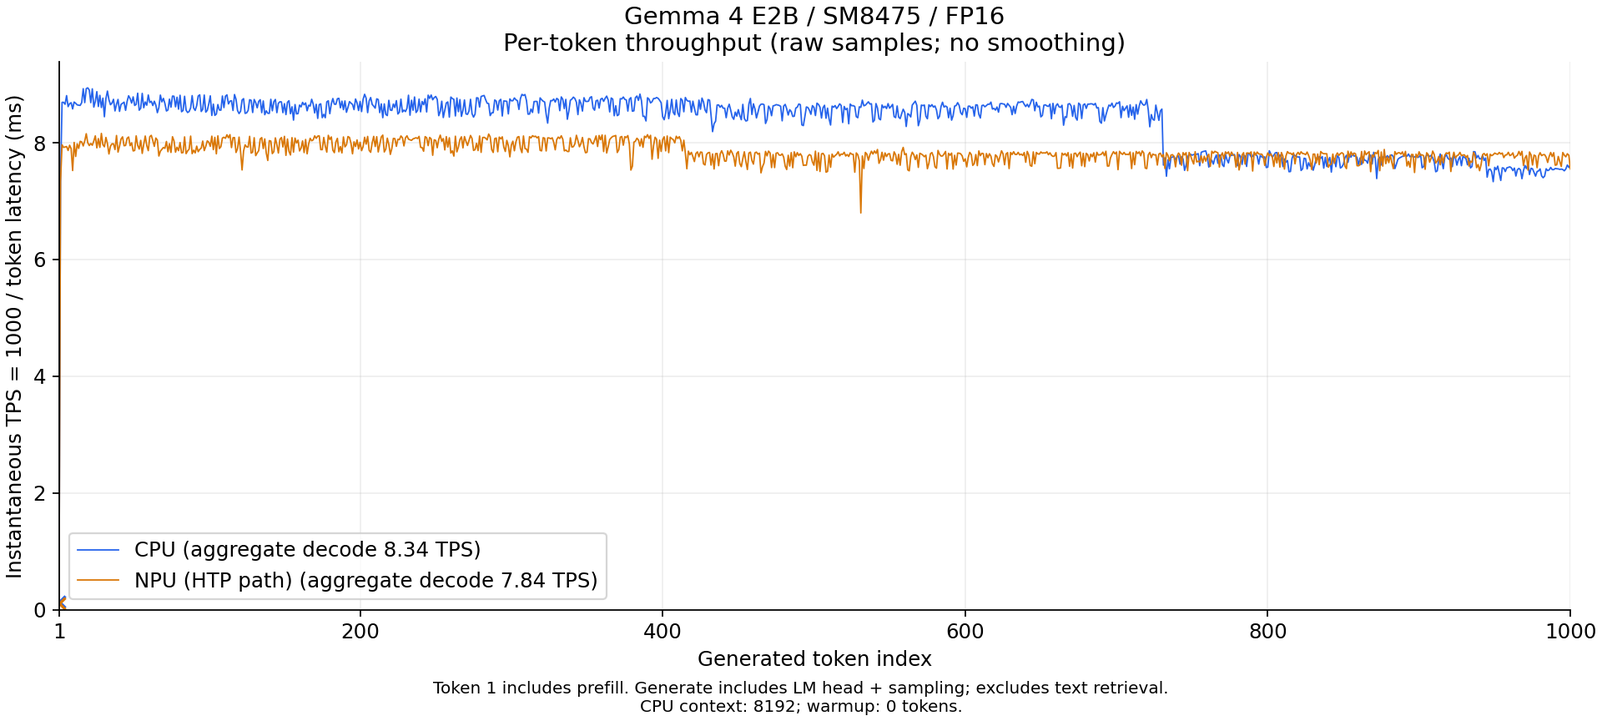
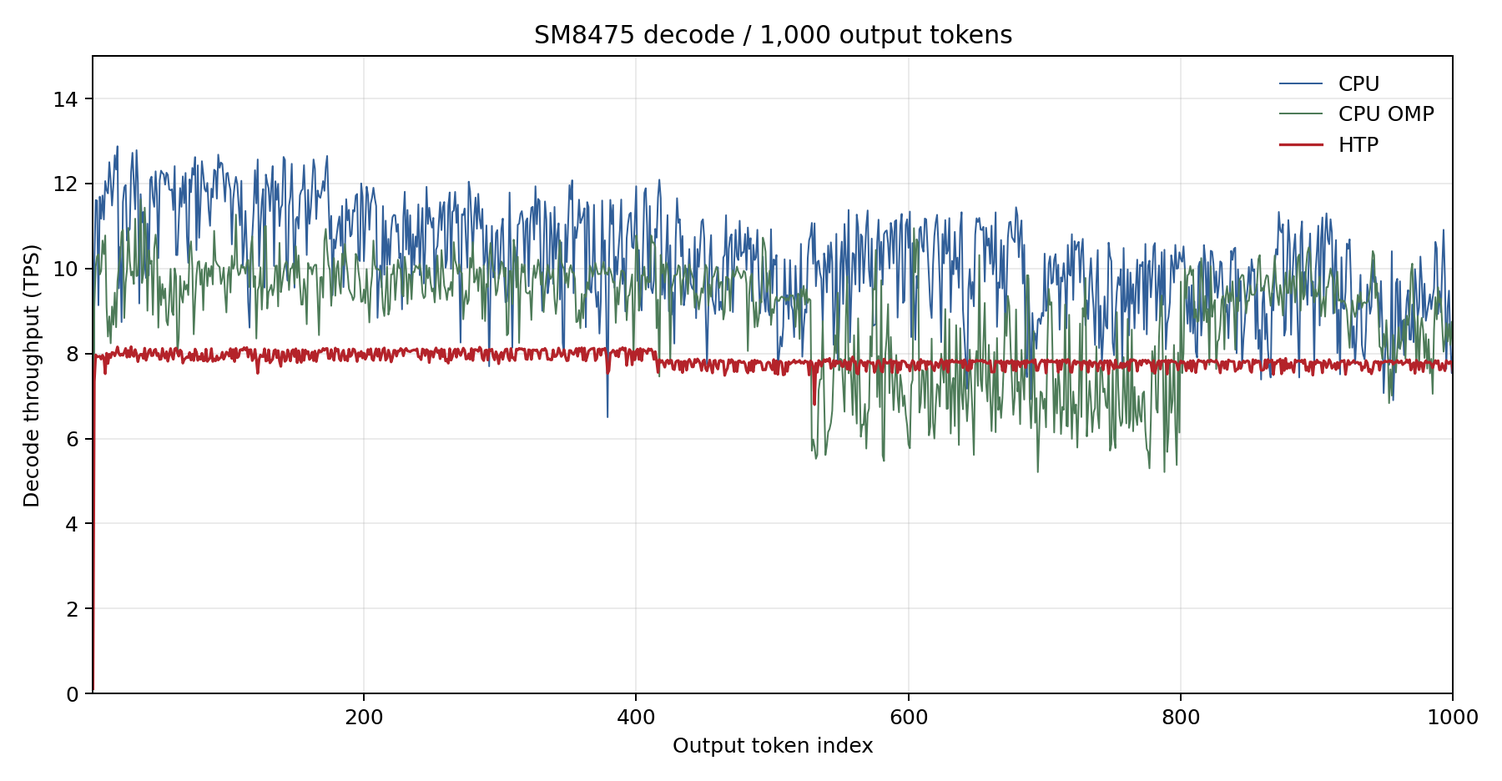
Replace the CPU reference with the standard llama.cpp path
Use the 2026-09-16 CPU reference, which runs the same Q4_0 GGUF through
the standard llama.cpp path with 8 decoder workers, for every CPU number:
decode, the prefill curve, and VLM and audio latency. Both the shipping
build and the OpenMP build are shown.

Add a section for host CPU use during prefill (about 4% on the NPU versus
86-98% on the CPU builds) with the regenerated charts and the new media
TTFT breakdowns, and restate the prefill speedup in the overview as up to
3.3x with the lower CPU use.

diff --git a/llm/qnn.html b/llm/qnn.html
@@ -91,7 +91,7 @@ j=d.createElement(s),dl=l!='dataLayer'?'&l='+l:'';j.async=true;j.src=
   <div class="guide-content">
 
     <h2>概要</h2>
-    <p>ailia LLM 1.5.0 以降は Qualcomm SoC の NPU（Hexagon）を使用した高速推論に対応しています。NPU 向けには、llama.cpp とは異なるアイリア社独自の実装を搭載しており、Android 端末上で Prefill を最大 19 倍高速化できます（Snapdragon 8+ Gen 1、2,048 トークン入力時の同端末 CPU 比）。テキストの LLM だけでなく、画像を入力する VLM（Vision Language Model）や音声入力にも対応し、NPU で処理できます。</p>
+    <p>ailia LLM 1.5.0 以降は Qualcomm SoC の NPU（Hexagon）を使用した高速推論に対応しています。NPU 向けには、llama.cpp とは異なるアイリア社独自の実装を搭載しており、Android 端末上で Prefill を最大 3.3 倍高速化し、Prefill 中の CPU 使用率を 1/20 以下に抑えられます（Snapdragon 8+ Gen 1、2,048 トークン入力時の同端末 CPU 比）。テキストの LLM だけでなく、画像を入力する VLM（Vision Language Model）や音声入力にも対応し、NPU で処理できます。</p>
     <p>QNN（Qualcomm AI Engine Direct）は Qualcomm が提供するバックエンド API です。ailia LLMでは、llama.cppのモデル形式であるGGUFを、QNNで実行可能な形式に変換することで、NPUでの推論を実現しています。</p>
     <div class="note">
       <strong>注意:</strong> QNN バックエンドは ailia LLM 1.5.0 以降で利用できます。
@@ -235,84 +235,108 @@ llm.openMultimodalProjectorFile(mmprojQnnPath) // VLM のみ</code></pre>
     </div>
 
     <h2>ベンチマーク</h2>
-    <p>Gemma 4 E2B を 2 機種で測定した結果です。Snapdragon 8+ Gen 1（SM8475 / Hexagon v69、ASUS AI2202）は FP16 モデル、Snapdragon 7s Gen 3（SM7635 / Hexagon v73）は Int16 モデルを使用しています。いずれも QAIRT 2.47.0.260601、コンテキスト長 8192、Q4_0 入力、AR-256 / AR-1 構成です。CPU は同じ端末上の llama.cpp 互換の CPU 実装（GGUF、2 スレッド）を使用しています。NPU の値は 2026-09-16 の量産パッケージ（PLE フロントエンドを NPU 側で実行）での測定です。</p>
+    <p>Gemma 4 E2B を 2 機種で測定した結果です。Snapdragon 8+ Gen 1（SM8475 / Hexagon v69、ASUS AI2202）は FP16 モデル、Snapdragon 7s Gen 3（SM7635 / Hexagon v73）は Int16 モデルを使用しています。いずれも QAIRT 2.47.0.260601、コンテキスト長 8192、Q4_0 入力、AR-256 / AR-1 構成で、NPU の値は 2026-09-16 の量産パッケージ（PLE フロントエンドを NPU 側で実行）での測定です。</p>
+    <p>CPU は同じ端末上で、同一の Q4_0 GGUF を標準の llama.cpp 経路で実行した値です（デコーダワーカー 8、コンテキスト 8192、NDK r27c）。出荷構成は OpenMP 無効のビルドで、表の「CPU」がこれにあたります。「CPU（OpenMP）」は <code>GGML_OPENMP=ON</code> / <code>OMP_NUM_THREADS=2</code> でビルドした比較用の構成です。</p>
     <div class="note">
-      <strong>注意:</strong> 2 機種は SoC も量子化方式も異なるため、両者の差を量子化方式だけの差とみなすことはできません。各測定は 1 試行の値であり、複数回の平均ではありません。
+      <strong>注意:</strong> 2 機種は SoC も量子化方式も異なるため、両者の差を量子化方式だけの差とみなすことはできません。CPU は 2 回実行の中央値、NPU は各条件 1 試行の値です。
     </div>
 
     <h3>Decode スループット</h3>
     <p>1,000 トークン生成時のスループットです。</p>
     <div class="table-wrap">
     <table class="version-table">
-      <tr><th>端末</th><th>モデル</th><th>CPU</th><th>NPU（QNN）</th><th>NPU / CPU</th></tr>
-      <tr><td>SM8475（Hexagon v69）</td><td>FP16</td><td class="num">8.340 tokens/s</td><td class="num">7.843 tokens/s</td><td class="num">0.94 倍</td></tr>
-      <tr><td>SM7635（Hexagon v73）</td><td>Int16</td><td class="num">7.851 tokens/s</td><td class="num">6.883 tokens/s</td><td class="num">0.88 倍</td></tr>
+      <tr><th>端末</th><th>モデル</th><th>CPU</th><th>CPU（OpenMP）</th><th>NPU（QNN）</th><th>NPU / CPU</th></tr>
+      <tr><td>SM8475（Hexagon v69）</td><td>FP16</td><td class="num">9.971 tokens/s</td><td class="num">8.482 tokens/s</td><td class="num">7.843 tokens/s</td><td class="num">0.79 倍</td></tr>
+      <tr><td>SM7635（Hexagon v73）</td><td>Int16</td><td class="num">6.045 tokens/s</td><td class="num">4.730 tokens/s</td><td class="num">6.883 tokens/s</td><td class="num">1.14 倍</td></tr>
     </table>
     </div>
-    <p>この条件では、いずれの端末でも Decode は CPU の方が高速です。Decode は 1 トークンずつ処理するため重みの読み出しが支配的で、NPU の並列演算性能を活かしにくいことによります。</p>
+    <p>SM7635 では NPU の Decode が CPU より 1.14 倍（OpenMP ビルド比では 1.46 倍）高速です。SM8475 では CPU の方が高速で、Decode は 1 トークンずつ処理するため重みの読み出しが支配的になり、NPU の並列演算性能を活かしにくいことによります。</p>
 
     <figure class="bench-figure">
-      <img src="benchmark/tps_sm8475.png" alt="SM8475 の Decode のトークンごとのスループット（1000 トークン生成、CPU vs NPU）" loading="lazy">
-      <figcaption>SM8475（FP16）の Decode のトークンごとのスループット（1000 トークン生成、CPU vs NPU）</figcaption>
+      <img src="benchmark/tps_sm8475.png" alt="SM8475 の Decode のトークンごとのスループット（1000 トークン生成、CPU / CPU OpenMP / NPU）" loading="lazy">
+      <figcaption>SM8475（FP16）の Decode のトークンごとのスループット（1000 トークン生成）</figcaption>
     </figure>
     <figure class="bench-figure">
-      <img src="benchmark/tps_sm7635.png" alt="SM7635 の Decode のトークンごとのスループット（1000 トークン生成、CPU vs NPU）" loading="lazy">
-      <figcaption>SM7635（Int16）の Decode のトークンごとのスループット（1000 トークン生成、CPU vs NPU）</figcaption>
+      <img src="benchmark/tps_sm7635.png" alt="SM7635 の Decode のトークンごとのスループット（1000 トークン生成、CPU / CPU OpenMP / NPU）" loading="lazy">
+      <figcaption>SM7635（Int16）の Decode のトークンごとのスループット（1000 トークン生成）</figcaption>
     </figure>
 
     <h3>Prefill スループット</h3>
     <p>入力トークン数を 64〜2,048 まで変えたときのスループット（tokens/s）です。各条件で 100 トークンを生成しています。</p>
     <div class="table-wrap">
     <table class="version-table">
-      <tr><th>入力トークン数</th><th>SM8475 CPU</th><th>SM8475 NPU（FP16）</th><th>SM7635 CPU</th><th>SM7635 NPU（Int16）</th></tr>
-      <tr><td class="num">64</td><td class="num">14.870</td><td class="num">23.978</td><td class="num">12.571</td><td class="num">14.296</td></tr>
-      <tr><td class="num">128</td><td class="num">21.505</td><td class="num">147.489</td><td class="num">16.822</td><td class="num">55.247</td></tr>
-      <tr><td class="num">256</td><td class="num">21.214</td><td class="num">265.230</td><td class="num">16.544</td><td class="num">109.083</td></tr>
-      <tr><td class="num">512</td><td class="num">20.454</td><td class="num">286.695</td><td class="num">16.013</td><td class="num">111.699</td></tr>
-      <tr><td class="num">1024</td><td class="num">18.662</td><td class="num">293.811</td><td class="num">15.208</td><td class="num">111.440</td></tr>
-      <tr><td class="num">2048</td><td class="num">14.549</td><td class="num">286.029</td><td class="num">14.295</td><td class="num">110.301</td></tr>
+      <tr><th>入力トークン数</th><th>SM8475 CPU</th><th>SM8475 CPU（OpenMP）</th><th>SM8475 NPU（FP16）</th><th>SM7635 CPU</th><th>SM7635 CPU（OpenMP）</th><th>SM7635 NPU（Int16）</th></tr>
+      <tr><td class="num">64</td><td class="num">69.627</td><td class="num">49.362</td><td class="num">23.978</td><td class="num">92.689</td><td class="num">76.227</td><td class="num">14.296</td></tr>
+      <tr><td class="num">128</td><td class="num">86.688</td><td class="num">61.941</td><td class="num">147.489</td><td class="num">97.005</td><td class="num">83.779</td><td class="num">55.247</td></tr>
+      <tr><td class="num">256</td><td class="num">61.918</td><td class="num">53.572</td><td class="num">265.230</td><td class="num">80.064</td><td class="num">67.042</td><td class="num">109.083</td></tr>
+      <tr><td class="num">512</td><td class="num">84.692</td><td class="num">75.048</td><td class="num">286.695</td><td class="num">105.030</td><td class="num">100.753</td><td class="num">111.699</td></tr>
+      <tr><td class="num">1024</td><td class="num">90.603</td><td class="num">77.651</td><td class="num">293.811</td><td class="num">112.090</td><td class="num">105.844</td><td class="num">111.440</td></tr>
+      <tr><td class="num">2048</td><td class="num">86.761</td><td class="num">72.302</td><td class="num">286.029</td><td class="num">96.678</td><td class="num">93.273</td><td class="num">110.301</td></tr>
     </table>
     </div>
     <ul>
-      <li>Prefill のスループットは <code>実入力トークン数 / 最初の生成呼び出し時間</code> です。ウォームアップは行っておらず、初回の遅延を含みます。</li>
-      <li>短い入力から長い入力へ順に測定しているため、64 トークンの結果は後続の条件と初期状態が異なります。</li>
-      <li>2,048 トークン入力では、SM8475 で CPU の約 19.7 倍、SM7635 で約 7.7 倍のスループットです。</li>
+      <li>Prefill のスループットは <code>実入力トークン数 / 最初の生成呼び出し時間</code> です。2 トークンのウォームアップ後に測定しています。</li>
+      <li>2,048 トークン入力では、SM8475 で CPU の約 3.30 倍（OpenMP ビルド比 3.96 倍）、SM7635 で約 1.14 倍（同 1.18 倍）のスループットです。</li>
+      <li>64 トークンのような短い入力では、固定長の AR-256 グラフでパディングが大きくなるため NPU が不利になります。</li>
     </ul>
 
     <figure class="bench-figure">
-      <img src="benchmark/pps_sm8475.png" alt="SM8475 の Prefill スループット（入力トークン数 64〜2048、CPU vs NPU）" loading="lazy">
-      <figcaption>SM8475（FP16）の Prefill スループット（入力トークン数 64〜2048、CPU vs NPU）</figcaption>
+      <img src="benchmark/pps_sm8475.png" alt="SM8475 の Prefill スループットと Prefill 中の CPU 使用率（CPU / CPU OpenMP / NPU）" loading="lazy">
+      <figcaption>SM8475（FP16）の Prefill スループット（左）と 2,048 トークン Prefill 中のホストプロセス CPU 使用率（右）</figcaption>
     </figure>
     <figure class="bench-figure">
-      <img src="benchmark/pps_sm7635.png" alt="SM7635 の Prefill スループット（入力トークン数 64〜2048、CPU vs NPU）" loading="lazy">
-      <figcaption>SM7635（Int16）の Prefill スループット（入力トークン数 64〜2048、CPU vs NPU）</figcaption>
+      <img src="benchmark/pps_sm7635.png" alt="SM7635 の Prefill スループットと Prefill 中の CPU 使用率（CPU / CPU OpenMP / NPU）" loading="lazy">
+      <figcaption>SM7635（Int16）の Prefill スループット（左）と 2,048 トークン Prefill 中のホストプロセス CPU 使用率（右）</figcaption>
     </figure>
 
+    <h3>Prefill 中の CPU 使用率</h3>
+    <p>2,048 トークン Prefill における、最初の生成呼び出し前後のプロセス CPU 時間です（3 回実行の中央値）。8 コアすべてを使い切った状態を 100% として表しています。アプリケーションプロセスの使用率であり、端末全体の使用率ではありません。</p>
+    <div class="table-wrap">
+    <table class="version-table">
+      <tr><th>端末</th><th>CPU</th><th>CPU（OpenMP）</th><th>NPU（QNN）</th></tr>
+      <tr><td>SM8475</td><td class="num">98.2%</td><td class="num">86.2%</td><td class="num">4.0%</td></tr>
+      <tr><td>SM7635</td><td class="num">93.0%</td><td class="num">98.0%</td><td class="num">3.4%</td></tr>
+    </table>
+    </div>
+    <p>NPU では Prefill 中の CPU 使用率が 4% 程度に収まるため、アプリケーション側の処理に CPU を残せます。3 回の連続実行での PPS の変動は NPU が 4.5%（SM8475）・2.1%（SM7635）だったのに対し、CPU 構成では最大 64.0%・38.5% でした。この測定は温度制御を行っていないため、変動の原因をサーマルスロットリングだけに帰することはできません。</p>
+
     <h3>VLM（画像入力）の応答時間</h3>
-    <p>同一の 768x768 画像 10 枚（画像 256 + テキスト 62 = 318 入力トークン、各 100 トークン出力）の中央値です。TTFT は画像エンコーダを含むプロンプト設定と最初の生成呼び出しの合計で、モデルのオープンは含みません。CPU 側は Decoder が 2 スレッド、画像エンコーダは既定のコア数で動作しています。</p>
+    <p>同一の 768x768 画像 10 枚、各 100 トークン出力での中央値です。TTFT は画像エンコーダを含むプロンプト設定と最初の生成呼び出しの合計で、モデルのオープンは含みません。</p>
     <div class="table-wrap">
     <table class="version-table">
       <tr><th>端末・経路</th><th>TTFT（中央値）</th><th>Decode（中央値）</th></tr>
-      <tr><td>SM8475 CPU</td><td class="num">137.37 秒</td><td class="num">6.60 tokens/s</td></tr>
-      <tr><td>SM8475 NPU（FP16）</td><td class="num">6.57 秒</td><td class="num">7.69 tokens/s</td></tr>
-      <tr><td>SM7635 CPU</td><td class="num">105.18 秒</td><td class="num">7.93 tokens/s</td></tr>
-      <tr><td>SM7635 NPU（Int16）</td><td class="num">9.83 秒</td><td class="num">6.98 tokens/s</td></tr>
+      <tr><td>SM8475 CPU</td><td class="num">83.63 秒</td><td class="num">12.081 tokens/s</td></tr>
+      <tr><td>SM8475 CPU（OpenMP）</td><td class="num">128.22 秒</td><td class="num">7.491 tokens/s</td></tr>
+      <tr><td>SM8475 NPU（FP16）</td><td class="num">6.57 秒</td><td class="num">7.692 tokens/s</td></tr>
+      <tr><td>SM7635 CPU</td><td class="num">95.01 秒</td><td class="num">5.891 tokens/s</td></tr>
+      <tr><td>SM7635 CPU（OpenMP）</td><td class="num">97.45 秒</td><td class="num">3.569 tokens/s</td></tr>
+      <tr><td>SM7635 NPU（Int16）</td><td class="num">9.83 秒</td><td class="num">6.982 tokens/s</td></tr>
     </table>
     </div>
-    <p>画像入力の TTFT は、SM8475 で約 20.9 倍、SM7635 で約 10.7 倍短縮されます。各画像 1 試行の測定であり、CPU と NPU は別試行のため厳密な同時条件の A/B ではありません。CPU の値は 2026-09-13 の測定で、CPU 実行経路は変更していません。</p>
+    <p>画像入力の TTFT は、SM8475 で約 12.7 倍、SM7635 で約 9.7 倍短縮されます。各画像 1 試行の測定であり、CPU と NPU は別試行のため厳密な同時条件の A/B ではありません。なお、入力トークン数の数え方は経路によって異なり（CPU はテキスト 64 トークン、NPU は画像 256 トークンを含む 318 トークンとして報告）、いずれも同じ 768x768 の画素と 256 個の画像埋め込みを処理しています。</p>
+    <figure class="bench-figure">
+      <img src="benchmark/media_ttft_sm8475.png" alt="SM8475 の VLM / 音声入力の TTFT 内訳（CPU / CPU OpenMP / NPU）" loading="lazy">
+      <figcaption>SM8475（FP16）の VLM / 音声入力の TTFT 内訳（エンコーダとデコーダ Prefill）</figcaption>
+    </figure>
+    <figure class="bench-figure">
+      <img src="benchmark/media_ttft_sm7635.png" alt="SM7635 の VLM / 音声入力の TTFT 内訳（CPU / CPU OpenMP / NPU）" loading="lazy">
+      <figcaption>SM7635（Int16）の VLM / 音声入力の TTFT 内訳（エンコーダとデコーダ Prefill）</figcaption>
+    </figure>
 
     <h3>音声入力の応答時間</h3>
-    <p>FLEURS の 10 録音（5 言語 各 2 件、自然な EOS まで生成し上限 256 トークン）の中央値です。TTFT は音声エンコーダを含むプロンプト設定と最初の生成呼び出しの合計で、モデルのオープンは含みません。CPU 側は Decoder が 2 スレッド、音声エンコーダは既定のコア数で動作しています。</p>
+    <p>FLEURS の 10 録音（5 言語 各 2 件、自然な EOS まで生成し上限 256 トークン）の中央値です。TTFT は音声エンコーダを含むプロンプト設定と最初の生成呼び出しの合計で、モデルのオープンは含みません。</p>
     <div class="table-wrap">
     <table class="version-table">
       <tr><th>端末・経路</th><th>TTFT（中央値）</th><th>Decode（中央値）</th><th>出力トークン数</th></tr>
-      <tr><td>SM8475 CPU</td><td class="num">49.32 秒</td><td class="num">7.68 tokens/s</td><td class="num">21〜91</td></tr>
-      <tr><td>SM8475 NPU（FP16）</td><td class="num">8.08 秒</td><td class="num">7.19 tokens/s</td><td class="num">21〜60</td></tr>
-      <tr><td>SM7635 CPU</td><td class="num">45.65 秒</td><td class="num">7.92 tokens/s</td><td class="num">21〜91</td></tr>
-      <tr><td>SM7635 NPU（Int16）</td><td class="num">9.29 秒</td><td class="num">6.54 tokens/s</td><td class="num">21〜90</td></tr>
+      <tr><td>SM8475 CPU</td><td class="num">37.29 秒</td><td class="num">10.416 tokens/s</td><td class="num">21〜89</td></tr>
+      <tr><td>SM8475 CPU（OpenMP）</td><td class="num">36.49 秒</td><td class="num">10.539 tokens/s</td><td class="num">21〜89</td></tr>
+      <tr><td>SM8475 NPU（FP16）</td><td class="num">8.08 秒</td><td class="num">7.193 tokens/s</td><td class="num">21〜60</td></tr>
+      <tr><td>SM7635 CPU</td><td class="num">47.22 秒</td><td class="num">5.167 tokens/s</td><td class="num">21〜89</td></tr>
+      <tr><td>SM7635 CPU（OpenMP）</td><td class="num">35.37 秒</td><td class="num">3.847 tokens/s</td><td class="num">21〜89</td></tr>
+      <tr><td>SM7635 NPU（Int16）</td><td class="num">9.29 秒</td><td class="num">6.539 tokens/s</td><td class="num">21〜90</td></tr>
     </table>
     </div>
-    <p>音声入力の TTFT は、SM8475 で約 6.1 倍、SM7635 で約 4.9 倍短縮されます。生成される文と出力長は経路ごとに異なるため、TTFT 以外の値は同一出力に対する比較ではありません。CPU と NPU は別試行の測定であり、同時条件の A/B ではありません。</p>
+    <p>音声入力の TTFT は、SM8475 で約 4.6 倍、SM7635 で約 5.1 倍短縮されます。生成される文と出力長は経路ごとに異なるため、TTFT 以外の値は同一出力に対する比較ではありません。CPU と NPU は別試行の測定であり、同時条件の A/B ではありません。</p>
 
     <h2>制約</h2>
     <ul>

diff --git a/en/llm/qnn.html b/en/llm/qnn.html
@@ -91,7 +91,7 @@ j=d.createElement(s),dl=l!='dataLayer'?'&l='+l:'';j.async=true;j.src=
   <div class="guide-content">
 
     <h2>Overview</h2>
-    <p>ailia LLM 1.5.0 and later support fast inference on the NPU (Hexagon) of Qualcomm SoCs. For the NPU, ailia LLM uses a proprietary implementation developed by ailia Inc. that is separate from llama.cpp, and it accelerates prefill by up to 19x on Android devices (Snapdragon 8+ Gen 1, 2,048-token input, compared with the CPU on the same device). In addition to text LLMs and VLMs (Vision Language Models) that take images as input, ailia LLM also supports audio input, with processing on the NPU.</p>
+    <p>ailia LLM 1.5.0 and later support fast inference on the NPU (Hexagon) of Qualcomm SoCs. For the NPU, ailia LLM uses a proprietary implementation developed by ailia Inc. that is separate from llama.cpp, and it accelerates prefill by up to 3.3x on Android devices while keeping CPU use during prefill below one twentieth of the CPU path (Snapdragon 8+ Gen 1, 2,048-token input, compared with the CPU on the same device). In addition to text LLMs and VLMs (Vision Language Models) that take images as input, ailia LLM also supports audio input, with processing on the NPU.</p>
     <p>QNN (Qualcomm AI Engine Direct) is a backend API provided by Qualcomm. ailia LLM achieves NPU inference by converting GGUF, the model format of llama.cpp, into a format that can be executed by QNN.</p>
     <div class="note">
       <strong>Note:</strong> The QNN backend is available in ailia LLM 1.5.0 and later.
@@ -236,84 +236,108 @@ llm.openMultimodalProjectorFile(mmprojQnnPath) // VLM only</code></pre>
     </div>
 
     <h2>Benchmark</h2>
-    <p>The following results were measured with Gemma 4 E2B on two devices. Snapdragon 8+ Gen 1 (SM8475 / Hexagon v69, ASUS AI2202) uses the FP16 model, and Snapdragon 7s Gen 3 (SM7635 / Hexagon v73) uses the Int16 model. Both were measured with QAIRT 2.47.0.260601, a context length of 8192, Q4_0 input and the AR-256 / AR-1 configuration. CPU uses the llama.cpp compatible CPU implementation (GGUF, 2 threads) on the same device. The NPU numbers were measured with the 2026-09-16 production package, which runs the PLE frontend on the NPU.</p>
+    <p>The following results were measured with Gemma 4 E2B on two devices. Snapdragon 8+ Gen 1 (SM8475 / Hexagon v69, ASUS AI2202) uses the FP16 model, and Snapdragon 7s Gen 3 (SM7635 / Hexagon v73) uses the Int16 model. Both were measured with QAIRT 2.47.0.260601, a context length of 8192, Q4_0 input and the AR-256 / AR-1 configuration. The NPU numbers were measured with the 2026-09-16 production package, which runs the PLE frontend on the NPU.</p>
+    <p>The CPU numbers run the same Q4_0 GGUF through the standard llama.cpp path on the same device (8 decoder workers, context 8192, NDK r27c). The shipping configuration is the build with OpenMP disabled, which is the "CPU" column. "CPU (OpenMP)" is a comparison build made with <code>GGML_OPENMP=ON</code> and <code>OMP_NUM_THREADS=2</code>.</p>
     <div class="note">
-      <strong>Note:</strong> The two devices differ in both SoC and quantization, so the gap between them cannot be attributed to quantization alone. Each number is a single run, not an average of repeated runs.
+      <strong>Note:</strong> The two devices differ in both SoC and quantization, so the gap between them cannot be attributed to quantization alone. CPU values are the median of two runs; NPU values are a single run per condition.
     </div>
 
     <h3>Decode throughput</h3>
     <p>Throughput while generating 1,000 tokens.</p>
     <div class="table-wrap">
     <table class="version-table">
-      <tr><th>Device</th><th>Model</th><th>CPU</th><th>NPU (QNN)</th><th>NPU / CPU</th></tr>
-      <tr><td>SM8475 (Hexagon v69)</td><td>FP16</td><td class="num">8.340 tokens/s</td><td class="num">7.843 tokens/s</td><td class="num">0.94x</td></tr>
-      <tr><td>SM7635 (Hexagon v73)</td><td>Int16</td><td class="num">7.851 tokens/s</td><td class="num">6.883 tokens/s</td><td class="num">0.88x</td></tr>
+      <tr><th>Device</th><th>Model</th><th>CPU</th><th>CPU (OpenMP)</th><th>NPU (QNN)</th><th>NPU / CPU</th></tr>
+      <tr><td>SM8475 (Hexagon v69)</td><td>FP16</td><td class="num">9.971 tokens/s</td><td class="num">8.482 tokens/s</td><td class="num">7.843 tokens/s</td><td class="num">0.79x</td></tr>
+      <tr><td>SM7635 (Hexagon v73)</td><td>Int16</td><td class="num">6.045 tokens/s</td><td class="num">4.730 tokens/s</td><td class="num">6.883 tokens/s</td><td class="num">1.14x</td></tr>
     </table>
     </div>
-    <p>Under these conditions decode is faster on the CPU on both devices. Decode processes one token at a time, so it is dominated by weight loading and does not benefit much from the parallel compute of the NPU.</p>
+    <p>On SM7635, NPU decode is 1.14x faster than the CPU (1.46x faster than the OpenMP build). On SM8475 the CPU is faster: decode processes one token at a time, so it is dominated by weight loading and does not benefit much from the parallel compute of the NPU.</p>
 
     <figure class="bench-figure">
-      <img src="../../llm/benchmark/tps_sm8475.png" alt="SM8475 per-token decode throughput over 1000 generated tokens (CPU vs. NPU)" loading="lazy">
-      <figcaption>SM8475 (FP16) per-token decode throughput over 1000 generated tokens (CPU vs. NPU)</figcaption>
+      <img src="../../llm/benchmark/tps_sm8475.png" alt="SM8475 per-token decode throughput over 1000 generated tokens (CPU / CPU OpenMP / NPU)" loading="lazy">
+      <figcaption>SM8475 (FP16) per-token decode throughput over 1000 generated tokens</figcaption>
     </figure>
     <figure class="bench-figure">
-      <img src="../../llm/benchmark/tps_sm7635.png" alt="SM7635 per-token decode throughput over 1000 generated tokens (CPU vs. NPU)" loading="lazy">
-      <figcaption>SM7635 (Int16) per-token decode throughput over 1000 generated tokens (CPU vs. NPU)</figcaption>
+      <img src="../../llm/benchmark/tps_sm7635.png" alt="SM7635 per-token decode throughput over 1000 generated tokens (CPU / CPU OpenMP / NPU)" loading="lazy">
+      <figcaption>SM7635 (Int16) per-token decode throughput over 1000 generated tokens</figcaption>
     </figure>
 
     <h3>Prefill throughput</h3>
     <p>Throughput (tokens/s) for input lengths from 64 to 2,048 tokens. Each condition generates 100 tokens.</p>
     <div class="table-wrap">
     <table class="version-table">
-      <tr><th>Input tokens</th><th>SM8475 CPU</th><th>SM8475 NPU (FP16)</th><th>SM7635 CPU</th><th>SM7635 NPU (Int16)</th></tr>
-      <tr><td class="num">64</td><td class="num">14.870</td><td class="num">23.978</td><td class="num">12.571</td><td class="num">14.296</td></tr>
-      <tr><td class="num">128</td><td class="num">21.505</td><td class="num">147.489</td><td class="num">16.822</td><td class="num">55.247</td></tr>
-      <tr><td class="num">256</td><td class="num">21.214</td><td class="num">265.230</td><td class="num">16.544</td><td class="num">109.083</td></tr>
-      <tr><td class="num">512</td><td class="num">20.454</td><td class="num">286.695</td><td class="num">16.013</td><td class="num">111.699</td></tr>
-      <tr><td class="num">1024</td><td class="num">18.662</td><td class="num">293.811</td><td class="num">15.208</td><td class="num">111.440</td></tr>
-      <tr><td class="num">2048</td><td class="num">14.549</td><td class="num">286.029</td><td class="num">14.295</td><td class="num">110.301</td></tr>
+      <tr><th>Input tokens</th><th>SM8475 CPU</th><th>SM8475 CPU (OpenMP)</th><th>SM8475 NPU (FP16)</th><th>SM7635 CPU</th><th>SM7635 CPU (OpenMP)</th><th>SM7635 NPU (Int16)</th></tr>
+      <tr><td class="num">64</td><td class="num">69.627</td><td class="num">49.362</td><td class="num">23.978</td><td class="num">92.689</td><td class="num">76.227</td><td class="num">14.296</td></tr>
+      <tr><td class="num">128</td><td class="num">86.688</td><td class="num">61.941</td><td class="num">147.489</td><td class="num">97.005</td><td class="num">83.779</td><td class="num">55.247</td></tr>
+      <tr><td class="num">256</td><td class="num">61.918</td><td class="num">53.572</td><td class="num">265.230</td><td class="num">80.064</td><td class="num">67.042</td><td class="num">109.083</td></tr>
+      <tr><td class="num">512</td><td class="num">84.692</td><td class="num">75.048</td><td class="num">286.695</td><td class="num">105.030</td><td class="num">100.753</td><td class="num">111.699</td></tr>
+      <tr><td class="num">1024</td><td class="num">90.603</td><td class="num">77.651</td><td class="num">293.811</td><td class="num">112.090</td><td class="num">105.844</td><td class="num">111.440</td></tr>
+      <tr><td class="num">2048</td><td class="num">86.761</td><td class="num">72.302</td><td class="num">286.029</td><td class="num">96.678</td><td class="num">93.273</td><td class="num">110.301</td></tr>
     </table>
     </div>
     <ul>
-      <li>Prefill throughput is <code>actual input tokens / time of the first generate call</code>. No warmup is performed, so the first-call latency is included.</li>
-      <li>Conditions are measured from short to long inputs, so the 64-token result starts from a different state than the later ones.</li>
-      <li>With a 2,048-token input, the NPU reaches about 19.7x the CPU throughput on SM8475 and about 7.7x on SM7635.</li>
+      <li>Prefill throughput is <code>actual input tokens / time of the first generate call</code>, measured after a two-token warmup.</li>
+      <li>With a 2,048-token input, the NPU reaches about 3.30x the CPU throughput on SM8475 (3.96x against the OpenMP build) and about 1.14x on SM7635 (1.18x against the OpenMP build).</li>
+      <li>For short inputs such as 64 tokens the NPU is at a disadvantage, because the fixed-length AR-256 graph is mostly padding.</li>
     </ul>
 
     <figure class="bench-figure">
-      <img src="../../llm/benchmark/pps_sm8475.png" alt="SM8475 prefill throughput vs. input length (64 to 2048 tokens, CPU vs. NPU)" loading="lazy">
-      <figcaption>SM8475 (FP16) prefill throughput vs. input length (64 to 2048 tokens, CPU vs. NPU)</figcaption>
+      <img src="../../llm/benchmark/pps_sm8475.png" alt="SM8475 prefill throughput and host CPU use during prefill (CPU / CPU OpenMP / NPU)" loading="lazy">
+      <figcaption>SM8475 (FP16) prefill throughput (left) and host process CPU use during a 2,048-token prefill (right)</figcaption>
     </figure>
     <figure class="bench-figure">
-      <img src="../../llm/benchmark/pps_sm7635.png" alt="SM7635 prefill throughput vs. input length (64 to 2048 tokens, CPU vs. NPU)" loading="lazy">
-      <figcaption>SM7635 (Int16) prefill throughput vs. input length (64 to 2048 tokens, CPU vs. NPU)</figcaption>
+      <img src="../../llm/benchmark/pps_sm7635.png" alt="SM7635 prefill throughput and host CPU use during prefill (CPU / CPU OpenMP / NPU)" loading="lazy">
+      <figcaption>SM7635 (Int16) prefill throughput (left) and host process CPU use during a 2,048-token prefill (right)</figcaption>
     </figure>
 
+    <h3>CPU use during prefill</h3>
+    <p>Process CPU time measured around the first generate call of a 2,048-token prefill (median of three runs), expressed as a share of all 8 cores fully occupied (8 cores = 100%). This is the utilization of the application process, not of the whole device.</p>
+    <div class="table-wrap">
+    <table class="version-table">
+      <tr><th>Device</th><th>CPU</th><th>CPU (OpenMP)</th><th>NPU (QNN)</th></tr>
+      <tr><td>SM8475</td><td class="num">98.2%</td><td class="num">86.2%</td><td class="num">4.0%</td></tr>
+      <tr><td>SM7635</td><td class="num">93.0%</td><td class="num">98.0%</td><td class="num">3.4%</td></tr>
+    </table>
+    </div>
+    <p>On the NPU, CPU use during prefill stays around 4%, leaving the CPU available for the rest of the application. Across three consecutive runs, PPS varied by 4.5% (SM8475) and 2.1% (SM7635) on the NPU, against up to 64.0% and 38.5% for the CPU configurations. This measurement was not temperature-controlled, so the variation cannot be attributed to thermal throttling alone.</p>
+
     <h3>VLM (image input) latency</h3>
-    <p>Medians over the same 10 images at 768x768 (256 image + 62 text = 318 input tokens, 100 output tokens each). TTFT is the prompt setup including the image encoder plus the first generate call, excluding model opening. On the CPU path the decoder uses 2 threads and the image encoder uses the default number of cores.</p>
+    <p>Medians over the same 10 images at 768x768 with 100 output tokens each. TTFT is the prompt setup including the image encoder plus the first generate call, excluding model opening.</p>
     <div class="table-wrap">
     <table class="version-table">
       <tr><th>Device / path</th><th>TTFT (median)</th><th>Decode (median)</th></tr>
-      <tr><td>SM8475 CPU</td><td class="num">137.37 s</td><td class="num">6.60 tokens/s</td></tr>
-      <tr><td>SM8475 NPU (FP16)</td><td class="num">6.57 s</td><td class="num">7.69 tokens/s</td></tr>
-      <tr><td>SM7635 CPU</td><td class="num">105.18 s</td><td class="num">7.93 tokens/s</td></tr>
-      <tr><td>SM7635 NPU (Int16)</td><td class="num">9.83 s</td><td class="num">6.98 tokens/s</td></tr>
+      <tr><td>SM8475 CPU</td><td class="num">83.63 s</td><td class="num">12.081 tokens/s</td></tr>
+      <tr><td>SM8475 CPU (OpenMP)</td><td class="num">128.22 s</td><td class="num">7.491 tokens/s</td></tr>
+      <tr><td>SM8475 NPU (FP16)</td><td class="num">6.57 s</td><td class="num">7.692 tokens/s</td></tr>
+      <tr><td>SM7635 CPU</td><td class="num">95.01 s</td><td class="num">5.891 tokens/s</td></tr>
+      <tr><td>SM7635 CPU (OpenMP)</td><td class="num">97.45 s</td><td class="num">3.569 tokens/s</td></tr>
+      <tr><td>SM7635 NPU (Int16)</td><td class="num">9.83 s</td><td class="num">6.982 tokens/s</td></tr>
     </table>
     </div>
-    <p>Image TTFT is about 20.9x shorter on SM8475 and about 10.7x shorter on SM7635. Each image was measured once, and the CPU and NPU numbers come from separate runs rather than a strict side-by-side A/B. The CPU values were measured on 2026-09-13; the CPU execution path is unchanged.</p>
+    <p>Image TTFT is about 12.7x shorter on SM8475 and about 9.7x shorter on SM7635. Each image was measured once, and the CPU and NPU numbers come from separate runs rather than a strict side-by-side A/B. Note that the two paths count input tokens differently (the CPU path reports 64 text tokens, the NPU path reports 318 tokens including 256 image embeddings); both consume the same 768x768 pixels and the same 256 image embeddings.</p>
+    <figure class="bench-figure">
+      <img src="../../llm/benchmark/media_ttft_sm8475.png" alt="SM8475 VLM and audio TTFT breakdown (CPU / CPU OpenMP / NPU)" loading="lazy">
+      <figcaption>SM8475 (FP16) VLM and audio TTFT breakdown (encoder and decoder prefill)</figcaption>
+    </figure>
+    <figure class="bench-figure">
+      <img src="../../llm/benchmark/media_ttft_sm7635.png" alt="SM7635 VLM and audio TTFT breakdown (CPU / CPU OpenMP / NPU)" loading="lazy">
+      <figcaption>SM7635 (Int16) VLM and audio TTFT breakdown (encoder and decoder prefill)</figcaption>
+    </figure>
 
     <h3>Audio input latency</h3>
-    <p>Medians over 10 FLEURS recordings (2 each in 5 languages, generated to natural EOS with a 256-token cap). TTFT is the prompt setup including the audio encoder plus the first generate call, excluding model opening. On the CPU path the decoder uses 2 threads and the audio encoder uses the default number of cores.</p>
+    <p>Medians over 10 FLEURS recordings (2 each in 5 languages, generated to natural EOS with a 256-token cap). TTFT is the prompt setup including the audio encoder plus the first generate call, excluding model opening.</p>
     <div class="table-wrap">
     <table class="version-table">
       <tr><th>Device / path</th><th>TTFT (median)</th><th>Decode (median)</th><th>Output tokens</th></tr>
-      <tr><td>SM8475 CPU</td><td class="num">49.32 s</td><td class="num">7.68 tokens/s</td><td class="num">21-91</td></tr>
-      <tr><td>SM8475 NPU (FP16)</td><td class="num">8.08 s</td><td class="num">7.19 tokens/s</td><td class="num">21-60</td></tr>
-      <tr><td>SM7635 CPU</td><td class="num">45.65 s</td><td class="num">7.92 tokens/s</td><td class="num">21-91</td></tr>
-      <tr><td>SM7635 NPU (Int16)</td><td class="num">9.29 s</td><td class="num">6.54 tokens/s</td><td class="num">21-90</td></tr>
+      <tr><td>SM8475 CPU</td><td class="num">37.29 s</td><td class="num">10.416 tokens/s</td><td class="num">21-89</td></tr>
+      <tr><td>SM8475 CPU (OpenMP)</td><td class="num">36.49 s</td><td class="num">10.539 tokens/s</td><td class="num">21-89</td></tr>
+      <tr><td>SM8475 NPU (FP16)</td><td class="num">8.08 s</td><td class="num">7.193 tokens/s</td><td class="num">21-60</td></tr>
+      <tr><td>SM7635 CPU</td><td class="num">47.22 s</td><td class="num">5.167 tokens/s</td><td class="num">21-89</td></tr>
+      <tr><td>SM7635 CPU (OpenMP)</td><td class="num">35.37 s</td><td class="num">3.847 tokens/s</td><td class="num">21-89</td></tr>
+      <tr><td>SM7635 NPU (Int16)</td><td class="num">9.29 s</td><td class="num">6.539 tokens/s</td><td class="num">21-90</td></tr>
     </table>
     </div>
-    <p>Audio TTFT is about 6.1x shorter on SM8475 and about 4.9x shorter on SM7635. The generated text and output length differ between paths, so values other than TTFT are not a comparison over identical outputs, and the CPU and NPU numbers come from separate runs rather than a strict side-by-side A/B.</p>
+    <p>Audio TTFT is about 4.6x shorter on SM8475 and about 5.1x shorter on SM7635. The generated text and output length differ between paths, so values other than TTFT are not a comparison over identical outputs, and the CPU and NPU numbers come from separate runs rather than a strict side-by-side A/B.</p>
 
     <h2>Limitations</h2>
     <ul>
